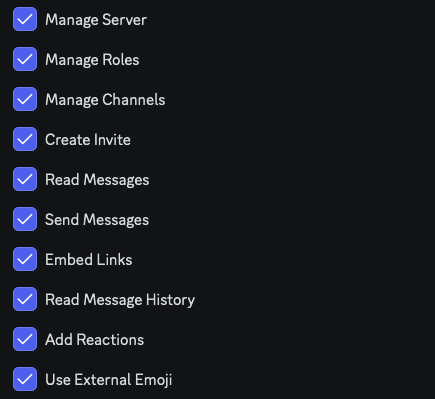
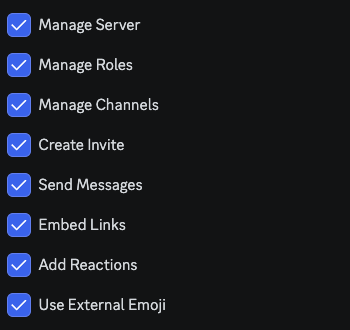
Discord remove read permissions (#1209)
* Remove read messages permissions from Discord bot invite

* Remove redundant change

* fix: update `discord_permissions.png`

---------

Changed region(s): [[0.0, 0.5152, 0.4857, 1.0], [0.0, 0.0, 0.4571, 0.4848]]

diff --git a/src/components/[guild]/DiscordBotPermissionsChecker.tsx b/src/components/[guild]/DiscordBotPermissionsChecker.tsx
@@ -37,7 +37,6 @@ export const REQUIRED_PERMISSIONS = [
   "Embed Links",
   "Add Reactions",
   "Use External Emoji",
-  "Read Message History",
 ] as const
 
 type DiscordPermissions = {
@@ -223,7 +222,7 @@ const DiscordBotPermissionsChecker = () => {
             rightIcon: <ArrowSquareOut />,
             onClick: () =>
               window.open(
-                `https://discord.com/api/oauth2/authorize?client_id=${process.env.NEXT_PUBLIC_DISCORD_CLIENT_ID}&permissions=268782673&scope=bot%20applications.commands`
+                `https://discord.com/api/oauth2/authorize?client_id=${process.env.NEXT_PUBLIC_DISCORD_CLIENT_ID}&permissions=268716145&scope=bot%20applications.commands`
               ),
           },
           secondButtonProps: {

diff --git a/src/components/common/DiscordGuildSetup/components/ServerSetupCard/ServerSetupCard.tsx b/src/components/common/DiscordGuildSetup/components/ServerSetupCard/ServerSetupCard.tsx
@@ -32,7 +32,7 @@ const ServerSetupCard = ({ onSubmit, serverId }: Props): JSX.Element => {
   )
 
   const { onOpen: openAddBotPopup, windowInstance } = usePopupWindow(
-    `https://discord.com/api/oauth2/authorize?client_id=${process.env.NEXT_PUBLIC_DISCORD_CLIENT_ID}&guild_id=${serverId}&permissions=268782705&scope=bot%20applications.commands`,
+    `https://discord.com/api/oauth2/authorize?client_id=${process.env.NEXT_PUBLIC_DISCORD_CLIENT_ID}&guild_id=${serverId}&permissions=268716145&scope=bot%20applications.commands`,
     undefined,
     () => revalidatePermissions.onSubmit()
   )
